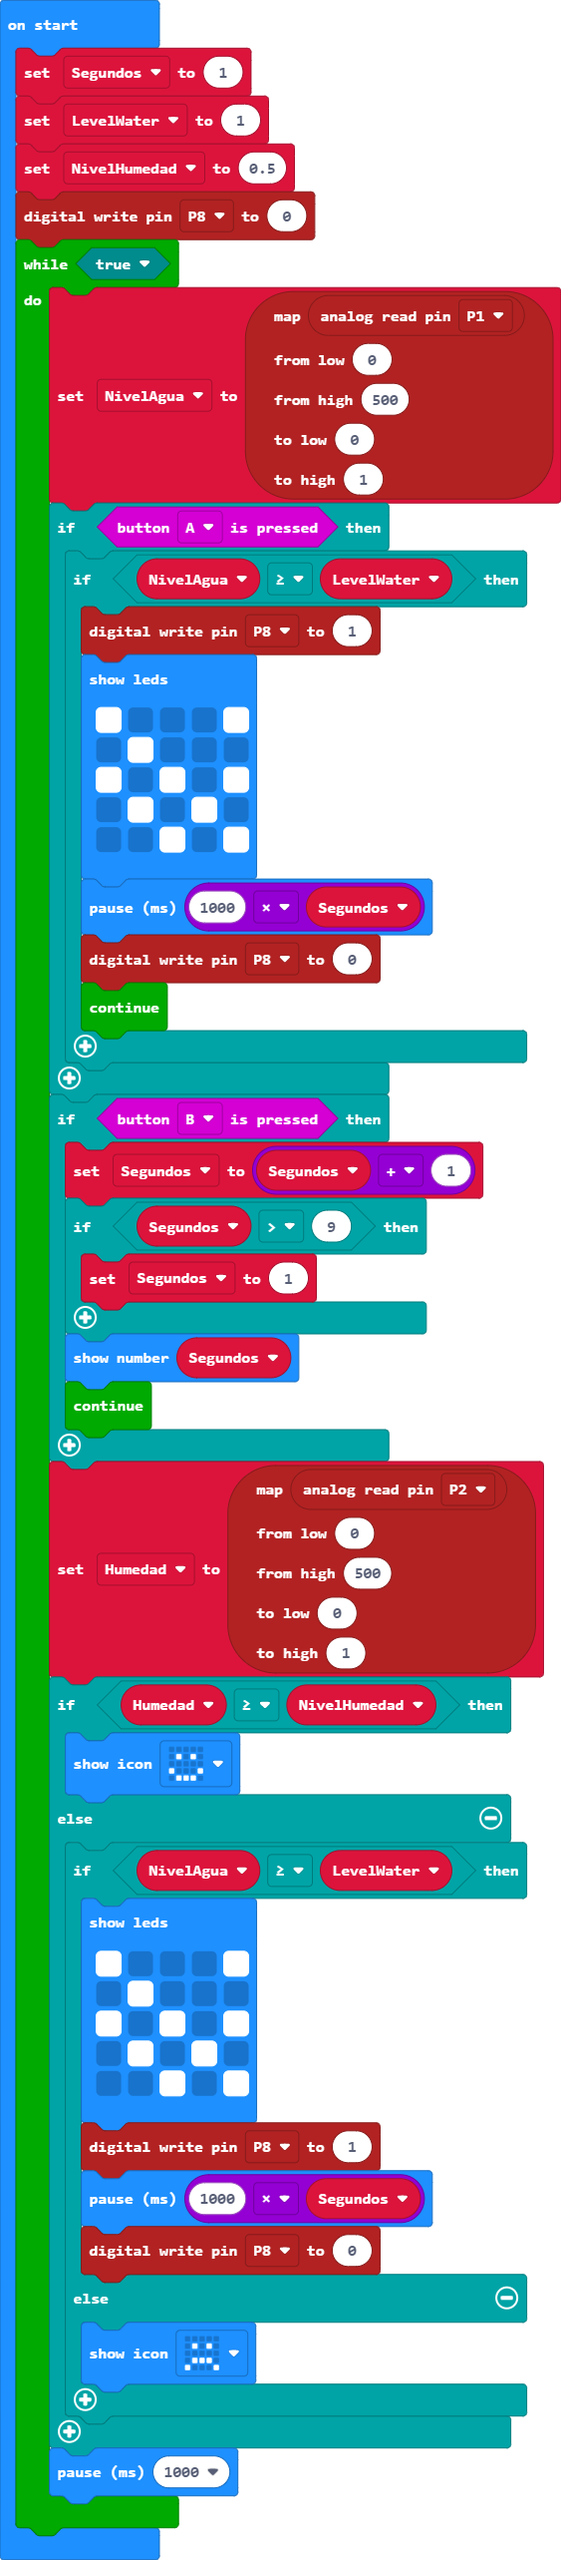
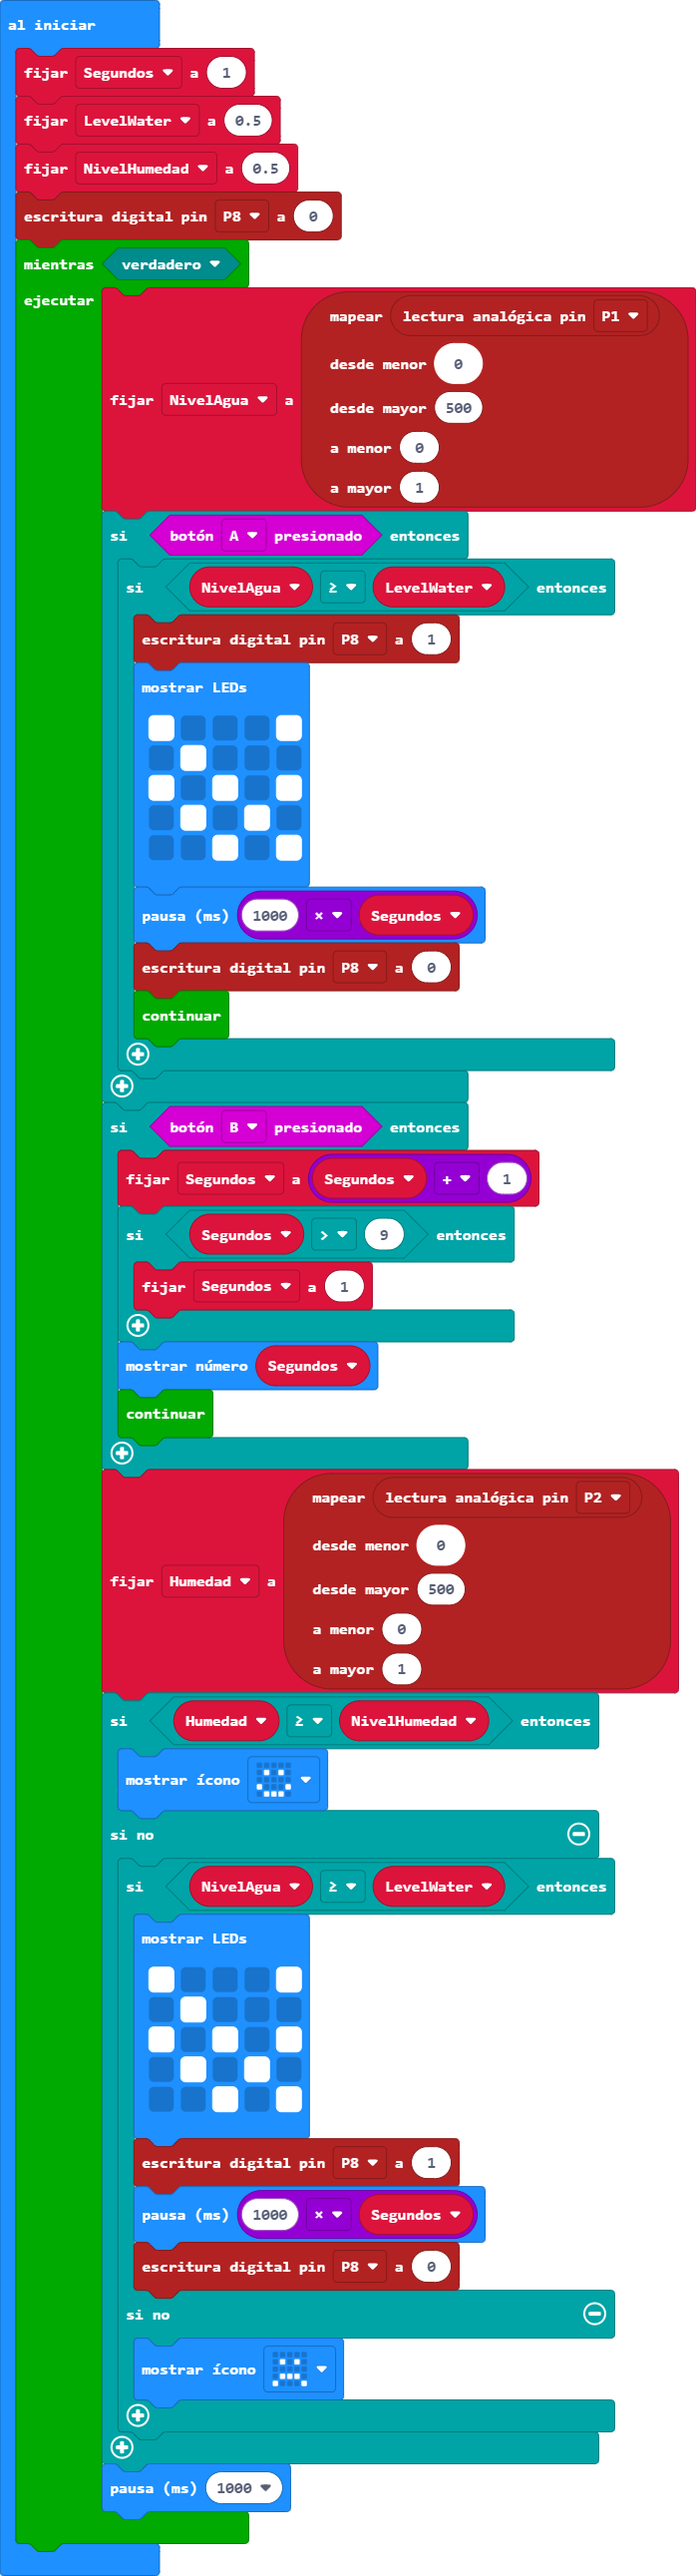
Actualizar main.blocks, main.ts

diff --git a/main.ts b/main.ts
@@ -1,7 +1,7 @@
 let Humedad = 0
 let NivelAgua = 0
 let Segundos = 1
-let LevelWater = 1
+let LevelWater = 0.5
 let NivelHumedad = 0.5
 pins.digitalWritePin(DigitalPin.P8, 0)
 while (true) {
